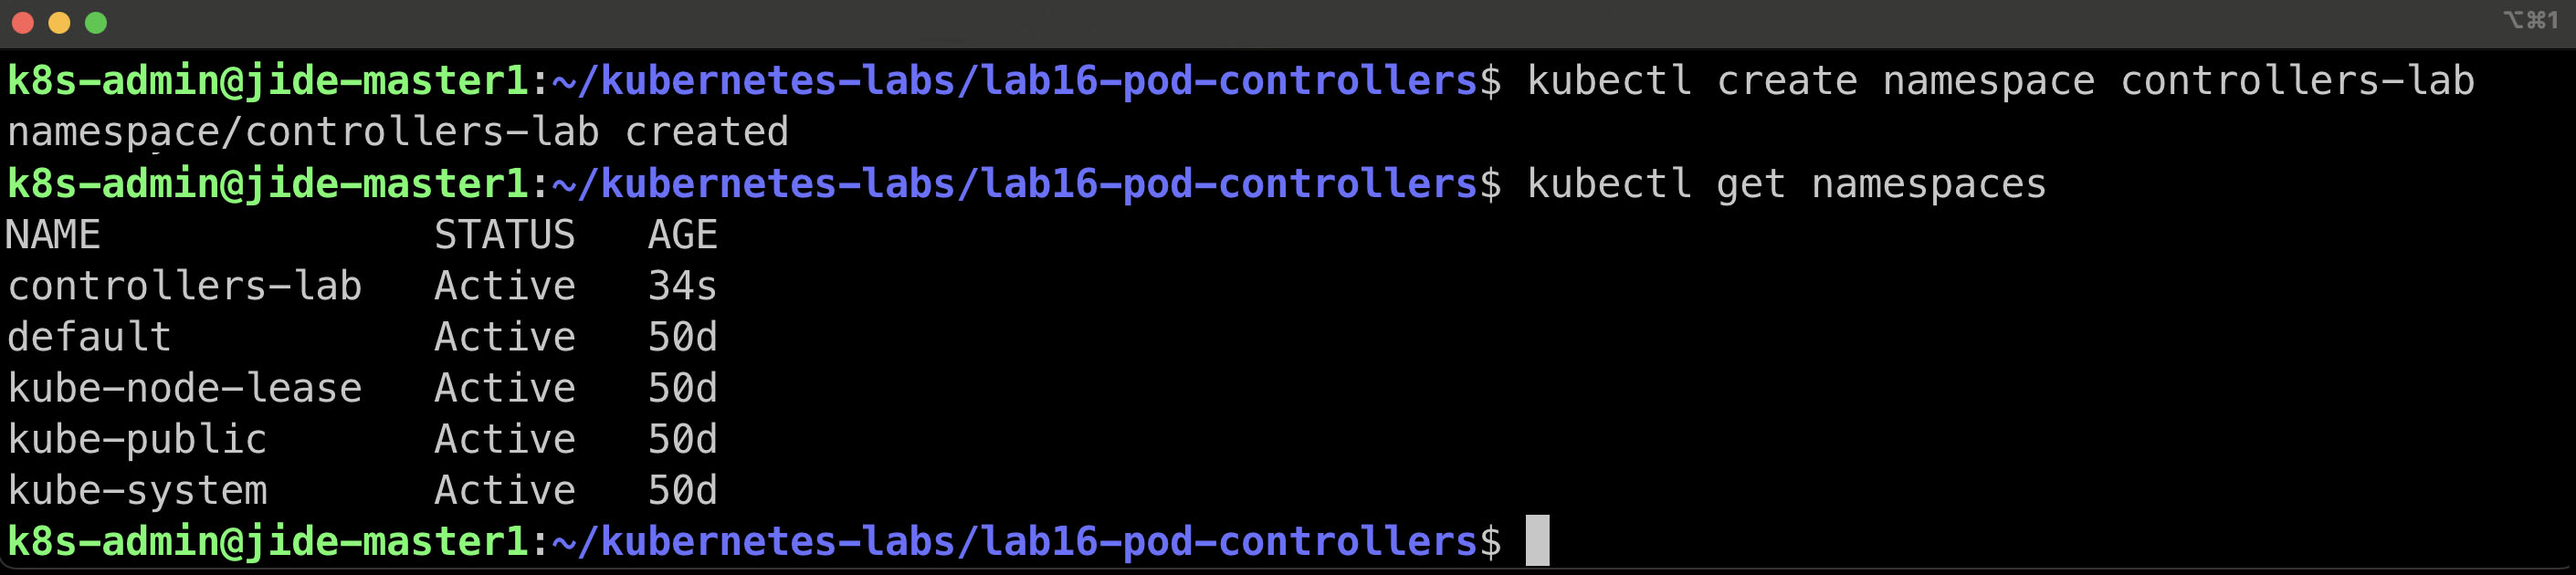
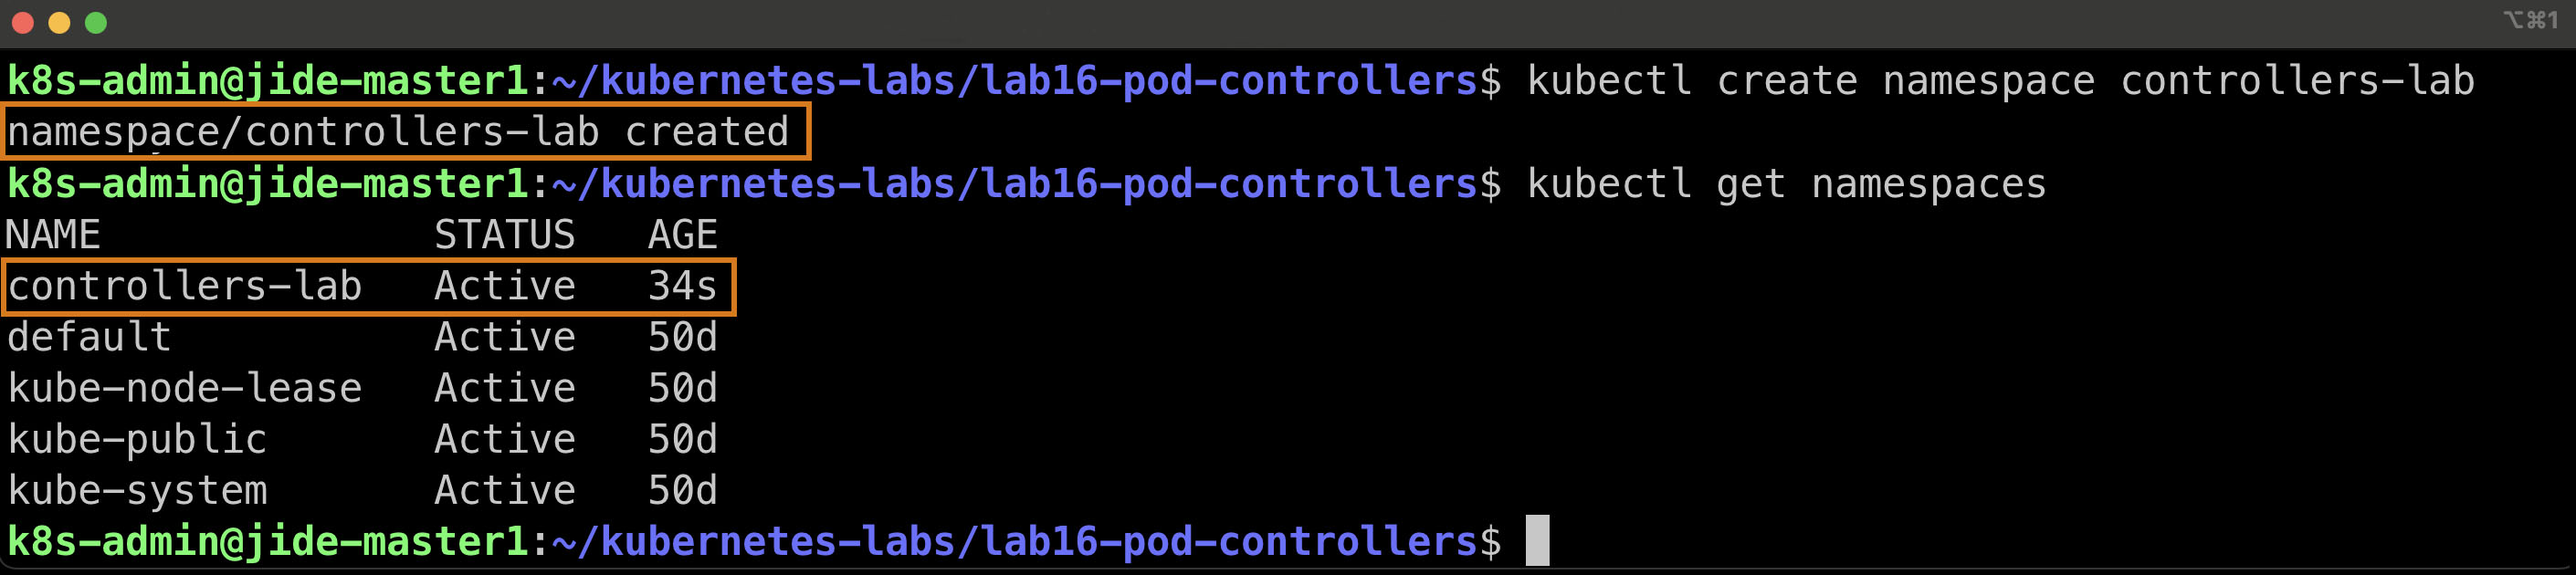
Update Lab 16 README and namespace screenshot

diff --git a/lab16-pod-controllers/README.md b/lab16-pod-controllers/README.md
@@ -1076,4 +1076,18 @@ Together, these exercises demonstrate an important Kubernetes principle:
 
 ---
 
-**Designed & Authored by Babajide Ajisafe © 2026**
+# Created
+
+## Babajide Ajisafe
+
+Cloud | DevOps | Kubernetes
+
+GitHub:
+https://github.com/bojide
+
+LinkedIn:
+https://linkedin.com/in/babajide-ajisafe
+
+---
+
+Passionate about designing, automating, and managing scalable cloud-native infrastructure using Kubernetes, Docker, Terraform, AWS, and modern DevOps practices.
